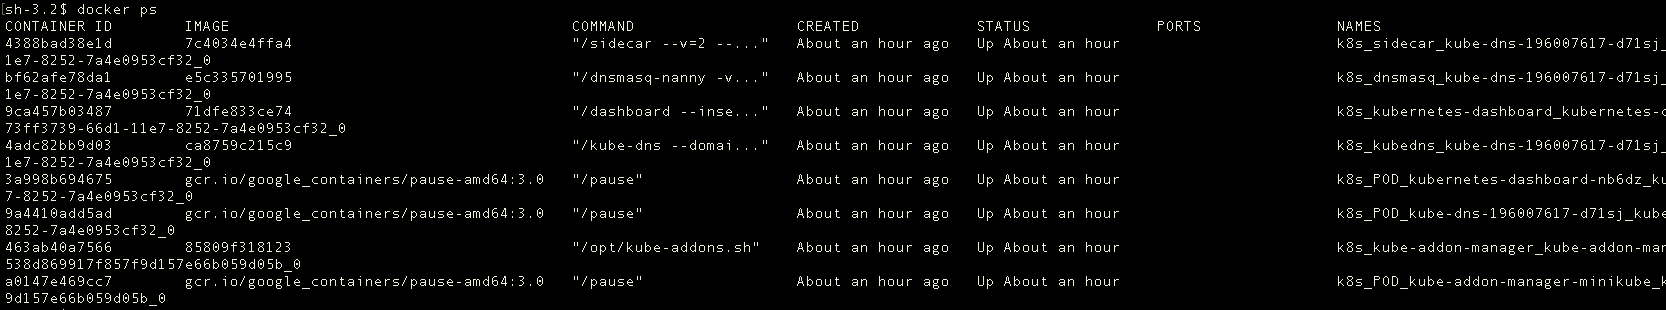
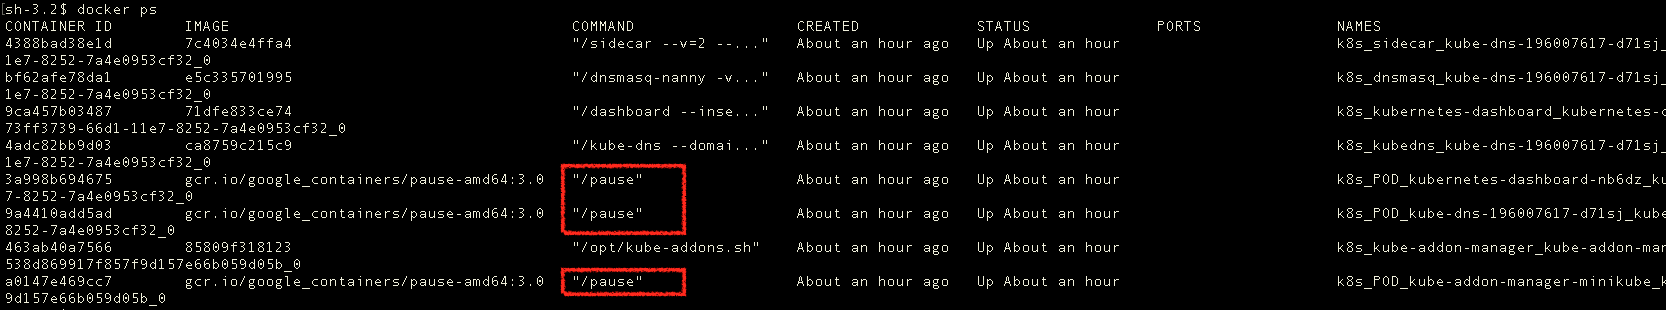
完成100%：带着问题学 Kubernetes 基本单元 Pod

diff --git a/201707/k8s-pod.md b/201707/k8s-pod.md
@@ -1,16 +1,31 @@
 # 带着问题学 Kubernetes 基本单元 Pod
 > 摘要：本文属于原创，欢迎转载，转载请保留出处：[https://github.com/jasonGeng88/blog](https://github.com/jasonGeng88/blog)
 
+* 文章一：[带着问题学 Kubernetes 架构](https://github.com/jasonGeng88/blog/blob/master/201707/k8s-architecture.md)
+
 ## 当前环境
 1. Mac OS 10.11.x
 2. kubectl == v1.6.4
 3. minikube == v0.19.1
 4. docker == 1.11.1
+
+## 要点
+
+* 使用 minikube 本地搭建 K8S
+* 证明每个 Pod 都有一个 Pause
+* Pod 的基本使用
+* Pod 生命周期的各种状态
+* Pod 的管理问题
+* Pod 的多容器场景
+* Pod 的数据共享问题
+* Pod 的网络共享的实现原理
  
 
 ## 准备工作
 
-* 启动 minikube（***minikube 是一个能让 K8S 本地运行的工具***）
+***关于 minikue 的安装，[官方文档](https://kubernetes.io/docs/tutorials/stateless-application/hello-minikube/)已经和详尽了，这里就不讲了。***
+
+* 启动 minikube（*minikube 是一个能让 K8S 本地运行的工具*）
 
 ```
 minikube start \
@@ -35,13 +50,16 @@ minikube start \
 
 好了，K8S 已经成功运行起来了。我们下面来初步观察一下当前 Pod 的运行情况，同时也验证一下上一篇所说的“一个 Pod 一个 Pause”的真伪了。
 
-* 查看 K8S 上所有的 Pod（***刚启动的话，可能需要一定时间来拉取相应的镜像。***）
+* 查看 K8S 上所有命名空间下的 Pod（***刚启动的话，可能需要一定时间来拉取相应的镜像。***）
 
 ```
 kubectl get pods --all-namespaces
 ```
 
 ![](assets/k8s-pod-01.png)
+<center>图1</center>
+
+可以看到 K8S 一共启动了3个 Pod，并且都是在 kube-system 命名空间下的。具体这3 个 Pod 的作用，大家唉看名字应该能猜到一点，不在本文介绍范围内。
 
 * 验证每个 Pod 内都会运行一个 Pause 容器
 
@@ -50,104 +68,263 @@ docker ps
 ```
 
 ![](assets/k8s-pod-02.png)
+<center>图2</center>
 
-## Pod
+从图中可以看出，确实运行着3个 pause 容器。同时运行着5个容器，数字也与图1中 READY  的总数一致（1+3+1）。
 
-* 如何运行和查看 Pod 信息？
+## Pod 
 
-先以命令式的方式进行启动（*最简单的启动方式，但不建议用于生产环境。后面会讲到用配置文件进行部署。*）
+### Q1：如何运行和查看 Pod 信息？
+
+先以命令式的方式进行启动，这也是最简单的启动方式，但不建议用于生产环境。（*后面会涉及以配置文件进行部署。*）
 
 ```
 kubectl run nginx --image=nginx
 ```
 
-是不是和```docker run```的命令很像，轻松上手。我们看一下 K8S 目前的 Pod 情况。
+***注意：在不指定命名空间时，默认为 default，其他指令基本都是如此。***
 
-```
-# 查看 default 命名空间下的 Pods 列表
-kubectl get pods
-```
-
-```
-# 查看 default 命名空间下指定 Pod 的详细信息
-kubectl describe pod $POD_NAME
-```
+是不是和```docker run```的命令很像，轻松上手。我们看一下运行情况。
 
 ![](assets/k8s-pod-03.png)
+<center>图3</center>
 
-![](assets/k8s-pod-04.png)
-
-* Pod 的生命周期中所经历的状态有哪些？
-
-	* Pending：Pod 定义正确，提交到 Master，但其包含的容器镜像还未完全创建。通常处在 Master 对 Pod 的调度过程中。
-	* ContainerCreating：Pod 的调度完成，被分配到指定 Node 上。处于容器创建的过程中。通常是在拉取镜像的过程中。
-	* Running：Pod 包含的所有容器都已经成功创建，并且成功运行起来。
-	* Successed：Pod 中所有容器都成功结束，且不会被重启。这是 Pod 的一种最终状态。
-	* Failed：Pod 中所有容器都结束，但至少一个容器以失败状态结束。这也是 Pod 的一种最终状态。
-
-* 如何保证 Pod 正常运行？
-
-从上面的各种状态可知，由于种种原因，Pod 可能处于上述状态的任何一种。对于异常的状态，K8S 是通过一种期望值与当前值的比对机制，来保证 Pod 的正常运行。通过 replicaset 做到的。
-
-```
-kubectl get rs
-``` 
-
-发现确实运行了一个 replicasets 资源。可是我们并没有直接的创建过它。它一般通过上层的 controller 来进行调用，主要是 ReplicationController 或 DeploymentController（下一代 ReplicationController）。上面我们运行 Pod 的时候，正好创建了一个 Deployment 资源。
+图中显示，deployment 已经被创建。可以把它看作是 Pod 的管理者，是 controller-manager 中的一员（*后面还会讲到*）。
 
 ```
 kubectl get deploy
 ```
+![](assets/k8s-pod-04.png)
+<center>图4</center>
 
-验证：当手动删除 Pod 时，DeploymentController 会自动创建一个新的 Pod，来确保与期望值的匹配。
+查看 Pod 列表
+
+```
+kubectl get pods
+```
+![](assets/k8s-pod-05.png)
+<center>图5</center>
+
+查看指定 Pod 的详细描述
+
+```
+kubectl describe pod $POD_NAME
+```
+![](assets/k8s-pod-06.png)
+<center>图6</center>
+
+
+### Q2：Pod 的生命周期中所经历的状态有哪些？
+
+从图5中可以看出，Pod 当前的状态是 Running，如果自己尝试的话，可能会遇到其他状态。因为 Pod 所处的生命周期的阶段可能不一样。
+
+下面常见的有这几种：
+
+* Pending：Pod 定义正确，提交到 Master，但其包含的容器镜像还未完全创建。通常处在 Master 对 Pod 的调度过程中。
+* ContainerCreating：Pod 的调度完成，被分配到指定 Node 上。处于容器创建的过程中。通常是在拉取镜像的过程中。
+* Running：Pod 包含的所有容器都已经成功创建，并且成功运行起来。
+* Successed：Pod 中所有容器都成功结束，且不会被重启。这是 Pod 的一种最终状态。
+* Failed：Pod 中所有容器都结束，但至少一个容器以失败状态结束。这也是 Pod 的一种最终状态。
+
+### Q3：如何保证 Pod 正常运行？
+
+从上面的各种状态可知，由于种种原因，Pod 可能处于上述状态的任何一种。对于异常的状态，K8S 是通过一种期望值与当前值的比对机制，来保证 Pod 的正常运行。其内部是通过 replicaset（*下一代 ReplicationController*） 做到的。
+
+```
+kubectl get rs
+``` 
+![](assets/k8s-pod-07.png)
+<center>图7</center>
+
+观察 replicaset 发现，存在一个 nginx-xxx 的 replicaset，它的期望值与当前值都为1，表示需要一个 Pod，并且已经处于 READY 状态。
+
+可是我们并没有直接的创建过它。而且一般也不会直接去使用它。我们通常会使用上层的 Deployment 来进行调用，因为它还提供了一些其他的特性，如更新与回滚。
+
+验证：当手动删除 Pod 时，Deployment 会自动创建一个新的 Pod，来确保与期望值的匹配。
+
+```
+kubectl delete pod $POD_NAME
+```
+![](assets/k8s-pod-08.png)
+<center>图8</center>
+
+
+***Deployment 相较 ReplicationController 而言，除了提供 ReplicationController 的基本功能，还支持声明式的更新和回滚。
+不过目前还是 beta 版。***
 	
-* 如何正确删除 Pod？
+### Q4：如何正确删除 Pod ？
 
-既然 Pod 是由 deployment 来管理的，我们只要删除 deployment，那么由它产生的 replicaset 和 Pod 也会自动删除。
+通过上述验证，我们直接删除 Pod后，依然会创建新的 Pod，这是它的保障机制。我们只有删除它的上层管理者，即 deployment，那么由它产生的 replicaset 和 Pod 会自动删除。
 
 ```
 kubectl delete deploy $DEPLOY_NAME
 ```
+![](assets/k8s-pod-09.png)
+<center>图9</center>
 
-* 什么场景下 Pod 会运行多个容器？
+### Q5：什么场景下 Pod 会运行多个容器？
 
-这其实是因人而异的，仁者见仁，智者见智。为了后面演示的方便，举一个服务自动构建的例子。
+为了后面演示的方便，举一个服务自动构建的例子。（*实用否，大家可以自行判断*）
 
-假设有两个容器，一个是 nginx 容器，做静态服务器，一个是 git-sync 容器，用于定时监测 git 仓库上代码的变化，拉取最新代码到本地。这是两个独立的容器，如果把它们放在一个 Pod 里面，Pod 的特点是内部网络共享、数据空间共享。这样就大大减少了原先跨容器访问复杂度。
+假设有两个容器，一个是 nginx 容器，做静态服务器，一个是 git-sync 容器，用于定时监测 git 仓库上代码的变化，拉取最新代码到本地。这是两个独立的容器，如果把它们放在一个 Pod 里面，Pod 的特点是内部网络共享、数据空间共享。这样就大大减少了原先跨容器访问的复杂度。
 
-***这里的例子举得不是特别好，如果涉及跨容器的网络通信，那么 Pod 的重要性会得到更好的体现。***
+***这里的例子举得可能不是特别好，如果涉及跨容器的网络通信，那么 Pod 的优势会得到更好的体现。***
 
-这里通过配置文件来启动包含 nginx、git-sync 容器的 Pod，配置文件具体如下：
+这里通过配置文件来启动包含 nginx、git-sync 容器的 Pod，
+
+配置文件 nginx-git.yml 具体内容如下：（*[官方参考文档](https://kubernetes.io/docs/resources-reference/v1.6/#replicationcontroller-v1-core)*）：
 
 ```
+apiVersion: apps/v1beta1
+kind: Deployment
+metadata:
+  name: nginx-git
+spec:
+  replicas: 1
+  template:
+    metadata:
+      labels:
+        app: nginx
+    spec:
+      containers:
+      - name: nginx # 启动 nginx 容器
+        image: nginx
+        volumeMounts: # 挂载数据卷
+        - mountPath: /usr/share/nginx/html
+          name: git-volume
+      - name: git-sync # 启动 git-sync 容器
+        image: openweb/git-sync
+        env:
+        - name: GIT_SYNC_REPO
+          value: "https://github.com/jasonGeng88/test.git"
+        - name: GIT_SYNC_DEST
+          value: "/git"
+        - name: GIT_SYNC_BRANCH
+          value: "master"
+        - name: GIT_SYNC_REV
+          value: "FETCH_HEAD"
+        - name: GIT_SYNC_WAIT
+          value: "10"
+        volumeMounts: # 挂载数据卷
+        - mountPath: /git
+          name: git-volume
+      volumes: # 共享数据卷
+      - name: git-volume
+        emptyDir: {}
 ```
 
-配置文件中，主要讲一下数据共享的问题。这里主要分为数据临时存储与持久性存储。
+配置文件有必要的注释，应该比较容易理解，这里简单讲下两点：
 
-* 临时存储：
-* 磁盘存储：（当然也提供了云空间的存储方式）
+1. GIT 仓库地址下只有一个 index.html 文件，内容为：```hello world 1!```。
+2. 关于共享数据 ```volumes``` 的配置问题。共享数据存储的问题主要分为：数据临时存储与持久性存储。
+	* 临时存储：
+
+	```
+	volumes:
+	- name: volume-name
+	  emptyDir: {}
+	```
+
+	* 挂载宿主机存储：
+
+	```
+	volumes:
+	- name: volume-name
+	  hostPth: 
+	  	path: "/data"
+	```
+
+	* 当然还有网络磁盘存储等（如谷歌公有云）
 
 ***注意：即使是临时存储，因为数据是 Pod 下所有容器共享的，任何一个容器重启，数据都不会丢失。当 Pod 结束时，临时性数据才会丢失。***
 
-* Pod 内部是如何实现网络共享的？
+#### 演示：
 
-* 网络资源问题？
-	* 容器之间访问
-	* Pod 之间访问
-* 数据共享问题？
-	* 数据临时存储：
-	* 数据持久存储：
+* **以配置文件运行 deployment：**
+
+```
+kubectl create -f nginx-git.yml
+```
+
+![](assets/k8s-pod-10.png)
+<center>图10</center>
+
+* **访问 Pod 查看效果：**
+
+更实用的场景是将 Pod 作为 Service 暴露，通过 Service 来进行访问，因为本文主要讲 Pod，不想引入 Service 的概念。所以我们直接来访问 Pod。
 
 
- * 如何启动一个 Pod？
- * 如何查看 Pod 的状态？
- * Pod 的内部组成是怎样的？
- * 如何来访问 Pod？
- * Pod 启动之后，谁来负责它的后半生？
+* 1. 查看 Pod 对应的 IP （*也可在 Pod 详细描述中获得*）
 
- 
-## 要点
-* pause
-* ReplicationSet
-* service
-	* type: default -> ClusterIP
+```
+kubectl get -o template pod/$POD_NAME --template={{.status.podIP}}
+```
+
+![](assets/k8s-pod-11.png)
+<center>图11</center>
+
+* 2. 进入 K8S 集群，访问 Pod 中 nginx 服务 
+
+因为获得 Pod IP 是 K8S 集群内部创建的，外面是无法与其通信的。所以我们需要通过命令 ```minikube ssh``` 进入集群，才可进行 Pod 访问。
+
+![](assets/k8s-pod-12.png)
+<center>图12</center>
+
+再把 git 仓库上的 index.html 内容改为 ```hello world 2!```，再访问一下 Pod 观察结果（需等待几秒）。
+
+![](assets/k8s-pod-13.png)
+<center>图13</center>
+
+### Q6：Pod 内部是如何实现网络共享的？
+
+最后，我们来看下 Pod 的 IP 是如何生成的，以及内部容器是如何关联的。
+
+通过 ```docker ps``` 我们发现，nginx-git 最终会生成三个容器，分别是 git-sync, nginx, pause。
+
+![](assets/k8s-pod-14.png)
+<center>图14</center>
+
+通过 ```docker inspect $CONTAINER_ID``` 我们发现，git-sync 与 nginx 的网络模型都是使用了同一个容器ID的网络，而该容器ID 正好对应了 pause 这个容器。
+
+![](assets/k8s-pod-15.png)
+<center>图15</center>
+
+我们再看 pause 容器的网络模型，发现它使用的是 bridge 模式，而分配的 IP 正是对应了 Pod 的 IP。由此可知，Pod 内所有容器都是通过 pause 的网络进行通信的。
+
+![](assets/k8s-pod-16.png)
+<center>图16</center>
+
+docker 中默认的网络模式就是 Bridge 模式。
+
+#### 证明：
+
+上面演示已经证明了集群间通过 Pod IP 是可以访问到容器内的服务的。我们下面证明，Pod 内容器之间通过 localhost 进行互相访问。
+
+我们进入 git-sync 容器，通过访问 localhost 的 80 端口，看是否能访问到 nginx 容器。
+
+![](assets/k8s-pod-17.png)
+<center>图17</center>
+
+答案很明显了！
+
+## 总结
+
+本文没有按部就班的去一一介绍 Pod 的相关功能点，而是通过 K8S 的本地搭建，从 Pod 的基本使用开始，通过几个问题穿插着介绍了 Pod 的一些主要的概念与使用。
+
+本文知识点总结：
+
+* minikube 的启动与连接
+* kubectl 的使用
+* Pod 的命令式与配置文件的启动
+* Pod 的查看方式（概况与详情）
+* Pod 生命周期中的各个状态
+* deployment 对 Pod 的管理
+* deployment, replicaset, pod 三者的关系
+* Pod 内多容器的场景
+* Pod 的共享数据的临时存储与文件挂载的持久存储
+* Pod 中 pause 的作用及网络通信的原理
+
+可能关于 Pod 的有些知识点没有讲到，或者有讲的不对的地方，也欢迎提出和指正！
+
+后面，也会去讲关于 service，configMap，update，rollout 相关的一些内容，希望对您有帮助~
+
